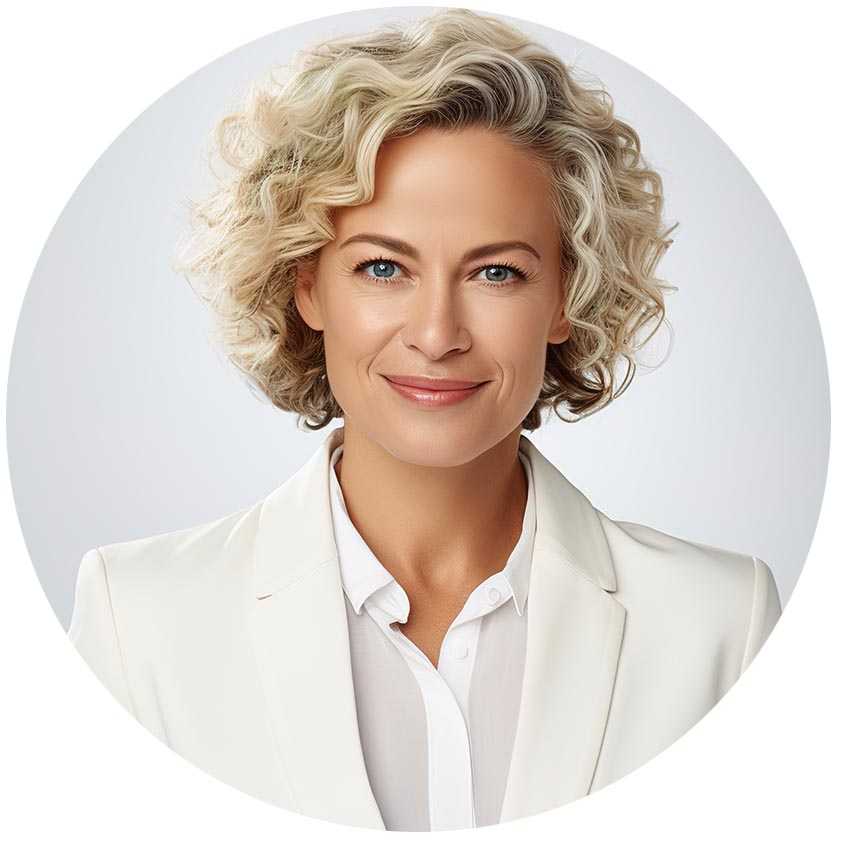
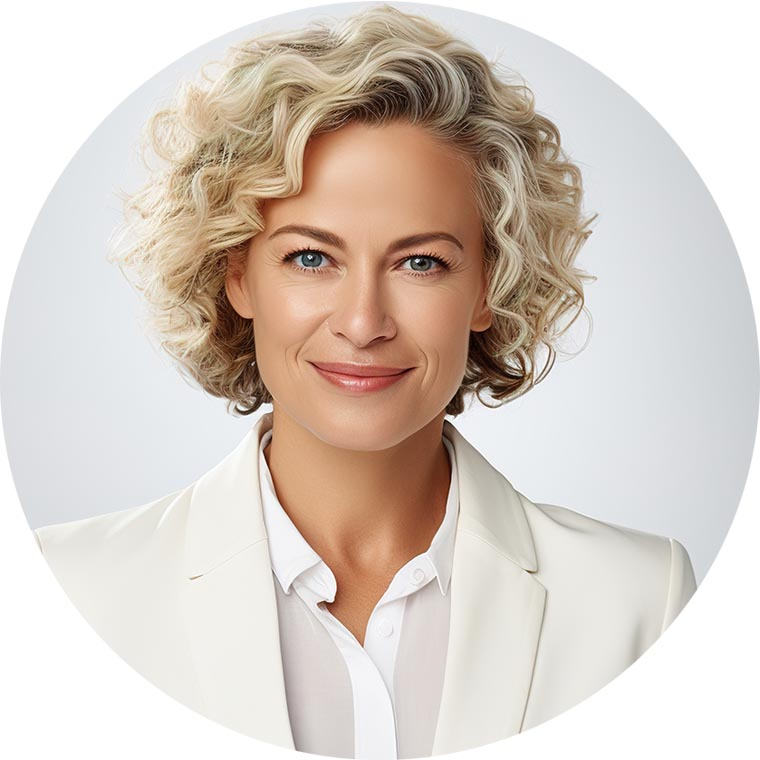
Changes to be committed: modified:   wwr/contact.html new file:   wwr/images/contact-hero.jpg modified:   wwr/images/employee1.jpg modified:   wwr/styles/rafting.css

diff --git a/wwr/styles/rafting.css b/wwr/styles/rafting.css
@@ -257,11 +257,32 @@ footer p {
   height: 30px;
 }
 
-/* ----- CONTACT US PAGE STYLE ----- */
-.flex {
-  display: flex;
-  justify-content: center;
-  align-items: center;
+.contact-intro {
+  display: grid;
+  grid-template-columns: 1fr;
+  margin: 0px;
+  padding: 0px;
+  border: 0px;
+}
+
+.contact-hero-img {
+  grid-column: 1/2;
+  grid-row: 1/2;
+  width: 100%;
+  z-index: -1;
+}
+.contact-msg{
+  grid-column: 1/2;
+  grid-row: 1/2;
+  text-align: left;
+  margin: 0px;
+}
+.contact-title {
+  color: var(--headline-color-on-color);
+  text-shadow: 0 0 3px #000, 0 0 5px #000;
+  font-size: 3em;
+  padding: 20px 0px 0px 20px;
+  margin: 0px;
 }
 
 .company-info {
@@ -290,12 +311,14 @@ footer p {
   margin-bottom: 10px;
 }
 
-/* Add styles for Contact Form section */
 .contact-form {
-  display: flex;
-  justify-content: center;
-  align-items: center;
-  flex-direction: column;
+  width: 650px;
+  margin: 0 auto;
+  padding: 1rem;
+  border: 1px solid rgba(0, 0, 0, 0.1);
+  border-radius: 0.5rem;
+  background-color: #eee;
+  display: grid;
 }
 .contact-form input {
   margin-bottom: 2rem;
@@ -317,20 +340,18 @@ footer p {
 }
 
 .contact-form button {
-  background-color: #9A8C98;
+  background-color: var(--primary-color);
   color: #fff;
-  padding: 10px 20px;
-  border: none;
-  border-radius: 5px;
+  border-radius: 10px;
+  text-align: center;
+  font-weight: bold;
+  align-self: center;
+  padding: 10px;
+  height: 25px;
+  width: 190px;
   cursor: pointer;
-  font-size: 16px;
 }
 
 .contact-form button:hover {
-  background-color: #2980b9;
-}
-
-.contact-form button:focus {
-  outline: none;
-  box-shadow: 0 0 0 2px #3498db;
+  background-color: #3498db;
 }

diff --git a/wwr/contact.html b/wwr/contact.html
@@ -19,7 +19,13 @@
         </nav>
     </header>
     <main>
-      <section class="contact">
+        <div id="contact-intro">
+          <img class="contact-hero-img" src="images/contact-hero.jpg" alt="Contact Us">
+          <section class="contact-msg">
+              <h1 class="contact-title">Contact Us</h1>
+          </section> 
+          </div>
+      <section class="contact-message">
         <h1>Contact Our Team!</h1>
         <p>
           Thank you for visiting our website. We're thrilled that you're interested in
@@ -29,8 +35,8 @@
       </section>
       <!-- Employee Profiles -->
       <section>
-        <h2 class="flex">Meet Our Team</h2>
         <div class="employee-profiles">
+          <h2>Meet Our Team</h2>
           <div class="employee">
             <img src="images/employee1.jpg" alt="Chief Exec" />
             <p>Jane Doe - President & CEO</p>
